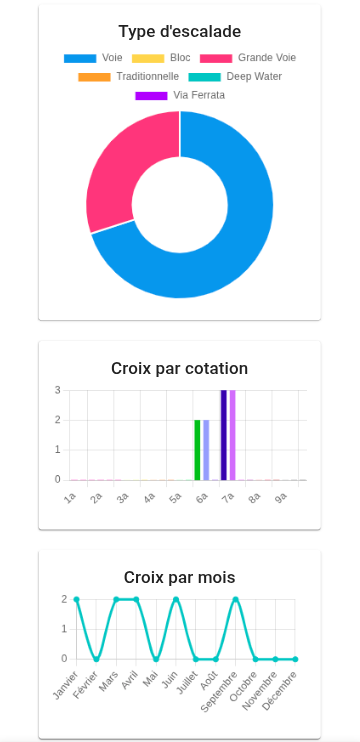
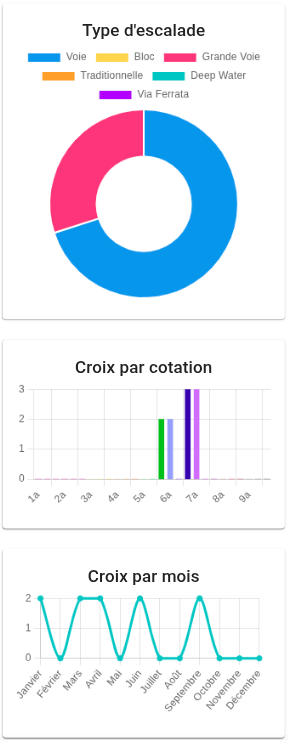
JAM-23 Correction of image size and spelling mistakes

diff --git a/src/components/ascents/AscentForm.tsx b/src/components/ascents/AscentForm.tsx
@@ -76,7 +76,7 @@ const AscentForm = () => {
             <form onSubmit={handleSubmit(onSubmit)} style={{paddingTop:'10px',marginBottom:'40px'}}>
                 <Stack textAlign={"left"} justifyContent={"flex-start"} justifyItems={"flex-start"} direction="column"
                        spacing={2}>
-                    <FormLabel id="style">J'ai fait la ligne: </FormLabel>
+                    <FormLabel id="style">J'ai fait la ligne : </FormLabel>
                     <RadioGroup
                         row
                         aria-labelledby="style"
@@ -93,7 +93,7 @@ const AscentForm = () => {
                     {errors.style && <FormHelperText>
                         <Typography color="error">{errors.style.message}</Typography>
                     </FormHelperText>}
-                    <FormLabel id="date">Date: </FormLabel>
+                    <FormLabel id="date">Date : </FormLabel>
                     <LocalizationProvider dateAdapter={AdapterDayjs} adapterLocale="fr">
                         <Box>
                             <Controller
@@ -125,24 +125,24 @@ const AscentForm = () => {
                     {errors.date && <FormHelperText>
                         <Typography color="error">{errors.date.message}</Typography>
                     </FormHelperText>}
-                    <FormLabel id="tries">Nombre d'essaie: </FormLabel>
-                    <TextField type="number" placeholder="Nombre d'essaie" {...register("tries", {
+                    <FormLabel id="tries">Nombre d'essais : </FormLabel>
+                    <TextField type="number" placeholder="Nombre d'essais" {...register("tries", {
                         max: 500,
                         min: 1,
                         value: 1,
-                        required: "Essaie obligatoire"
+                        required: "Essai obligatoire"
                     })} error={!!errors.tries}/>
                     {errors.tries && <FormHelperText>
                         <Typography color="error">{errors.tries.message}</Typography>
                     </FormHelperText>}
-                    <FormLabel id="comment">Commentaire: </FormLabel>
+                    <FormLabel id="comment">Commentaire : </FormLabel>
                     <TextareaAutosize
                         aria-label="comment"
                         minRows={3}
                         placeholder="Ajoute un commentaire..."
                         style={{width: "100%"}}
                         {...register("comment", {
-                            maxLength:{value: 255, message: "Ecrit moins"},
+                            maxLength:{value: 255, message: "Ecris moins"},
                         })}
                     />
                     <Typography>{watch("comment")?.length??0}/255 caractères</Typography>

diff --git a/src/pages/B_body/Landing.tsx b/src/pages/B_body/Landing.tsx
@@ -24,7 +24,7 @@ const Landing = () => {
 
                     <h2>Rejoins-nous !</h2>
                     <p style={{ marginBottom: "1rem", fontSize: "1rem", color: "#555" }}>
-                        Connecte-toi avec une <b>communauté de grimpeurs</b> passionnés de plein air.
+                        Connecte-toi à une <b>communauté de grimpeurs</b> passionnés de plein air.
                     </p>
                     <div style={{ display: "flex", justifyContent: "center", gap: "1rem", marginBottom: "4rem" }}>
                         <button
@@ -57,19 +57,19 @@ const Landing = () => {
                     </div>
 
                     <div style={{ marginBottom: "3rem" }}>
-                    <h3>Trouves les infos des spots d'escalades</h3>
+                    <h3>Trouve les infos des spots d'escalade</h3>
                         <p style={{ marginBottom: "1rem", fontSize: "1rem", color: "#555" }}>
-                            ClimbJAM recense les <b>sites d’escalade</b> en France. Découvres de nouvelles falaises en utilisant la recherche ou en consultant notre <b>carte des spots</b> français.
+                            ClimbJAM recense les <b>sites d’escalade</b> en France. Découvre de nouvelles falaises en utilisant la recherche ou en consultant notre <b>carte des spots</b> français.
                         </p>
-                    <img src={map} alt="carte des spots"/>
+                    <img src={map} alt="carte des spots" style={{ maxWidth: "100%", height: "auto" }}/>
                     </div>
 
                     <div style={{ marginBottom: "3rem" }}>
                         <h3>Visualise ta progression</h3>
                         <p style={{ marginBottom: "1rem", fontSize: "1rem", color: "#555" }}>
-                            ClimbJAM te permet d'<b>enregistrer tes sessions et tes croix</b> effectuées, et de <b>suivre ta progression</b> notamment grâce à des <b>graphiques</b>.
+                            ClimbJAM te permet d'<b>enregistrer tes sessions et les croix</b> que tu as effectuées, et de <b>suivre ta progression</b> notamment grâce à des <b>graphiques</b>.
                         </p>
-                            <img src={stats} alt="statistiques"/>
+                            <img src={stats} alt="statistiques" style={{ maxWidth: "100%", height: "auto" }}/>
                     </div>
                 </div>
             </Pages>

diff --git a/src/pages/B_body/Search.tsx b/src/pages/B_body/Search.tsx
@@ -56,7 +56,7 @@ const Search = () => {
                         label="Search"
                     />
                 </div>
-                <button className="buttonMap" onClick={() => navigate("/crags")}>Recherche par spots...</button>
+                <button className="buttonMap" onClick={() => navigate("/crags")}>Rechercher par spots...</button>
                 <MapContainer style={{width: "100 %", height: "85vh", zIndex: 0}} center={centerOfFrance} zoom={5}
                               scrollWheelZoom={true} ref={setMap}>
 
